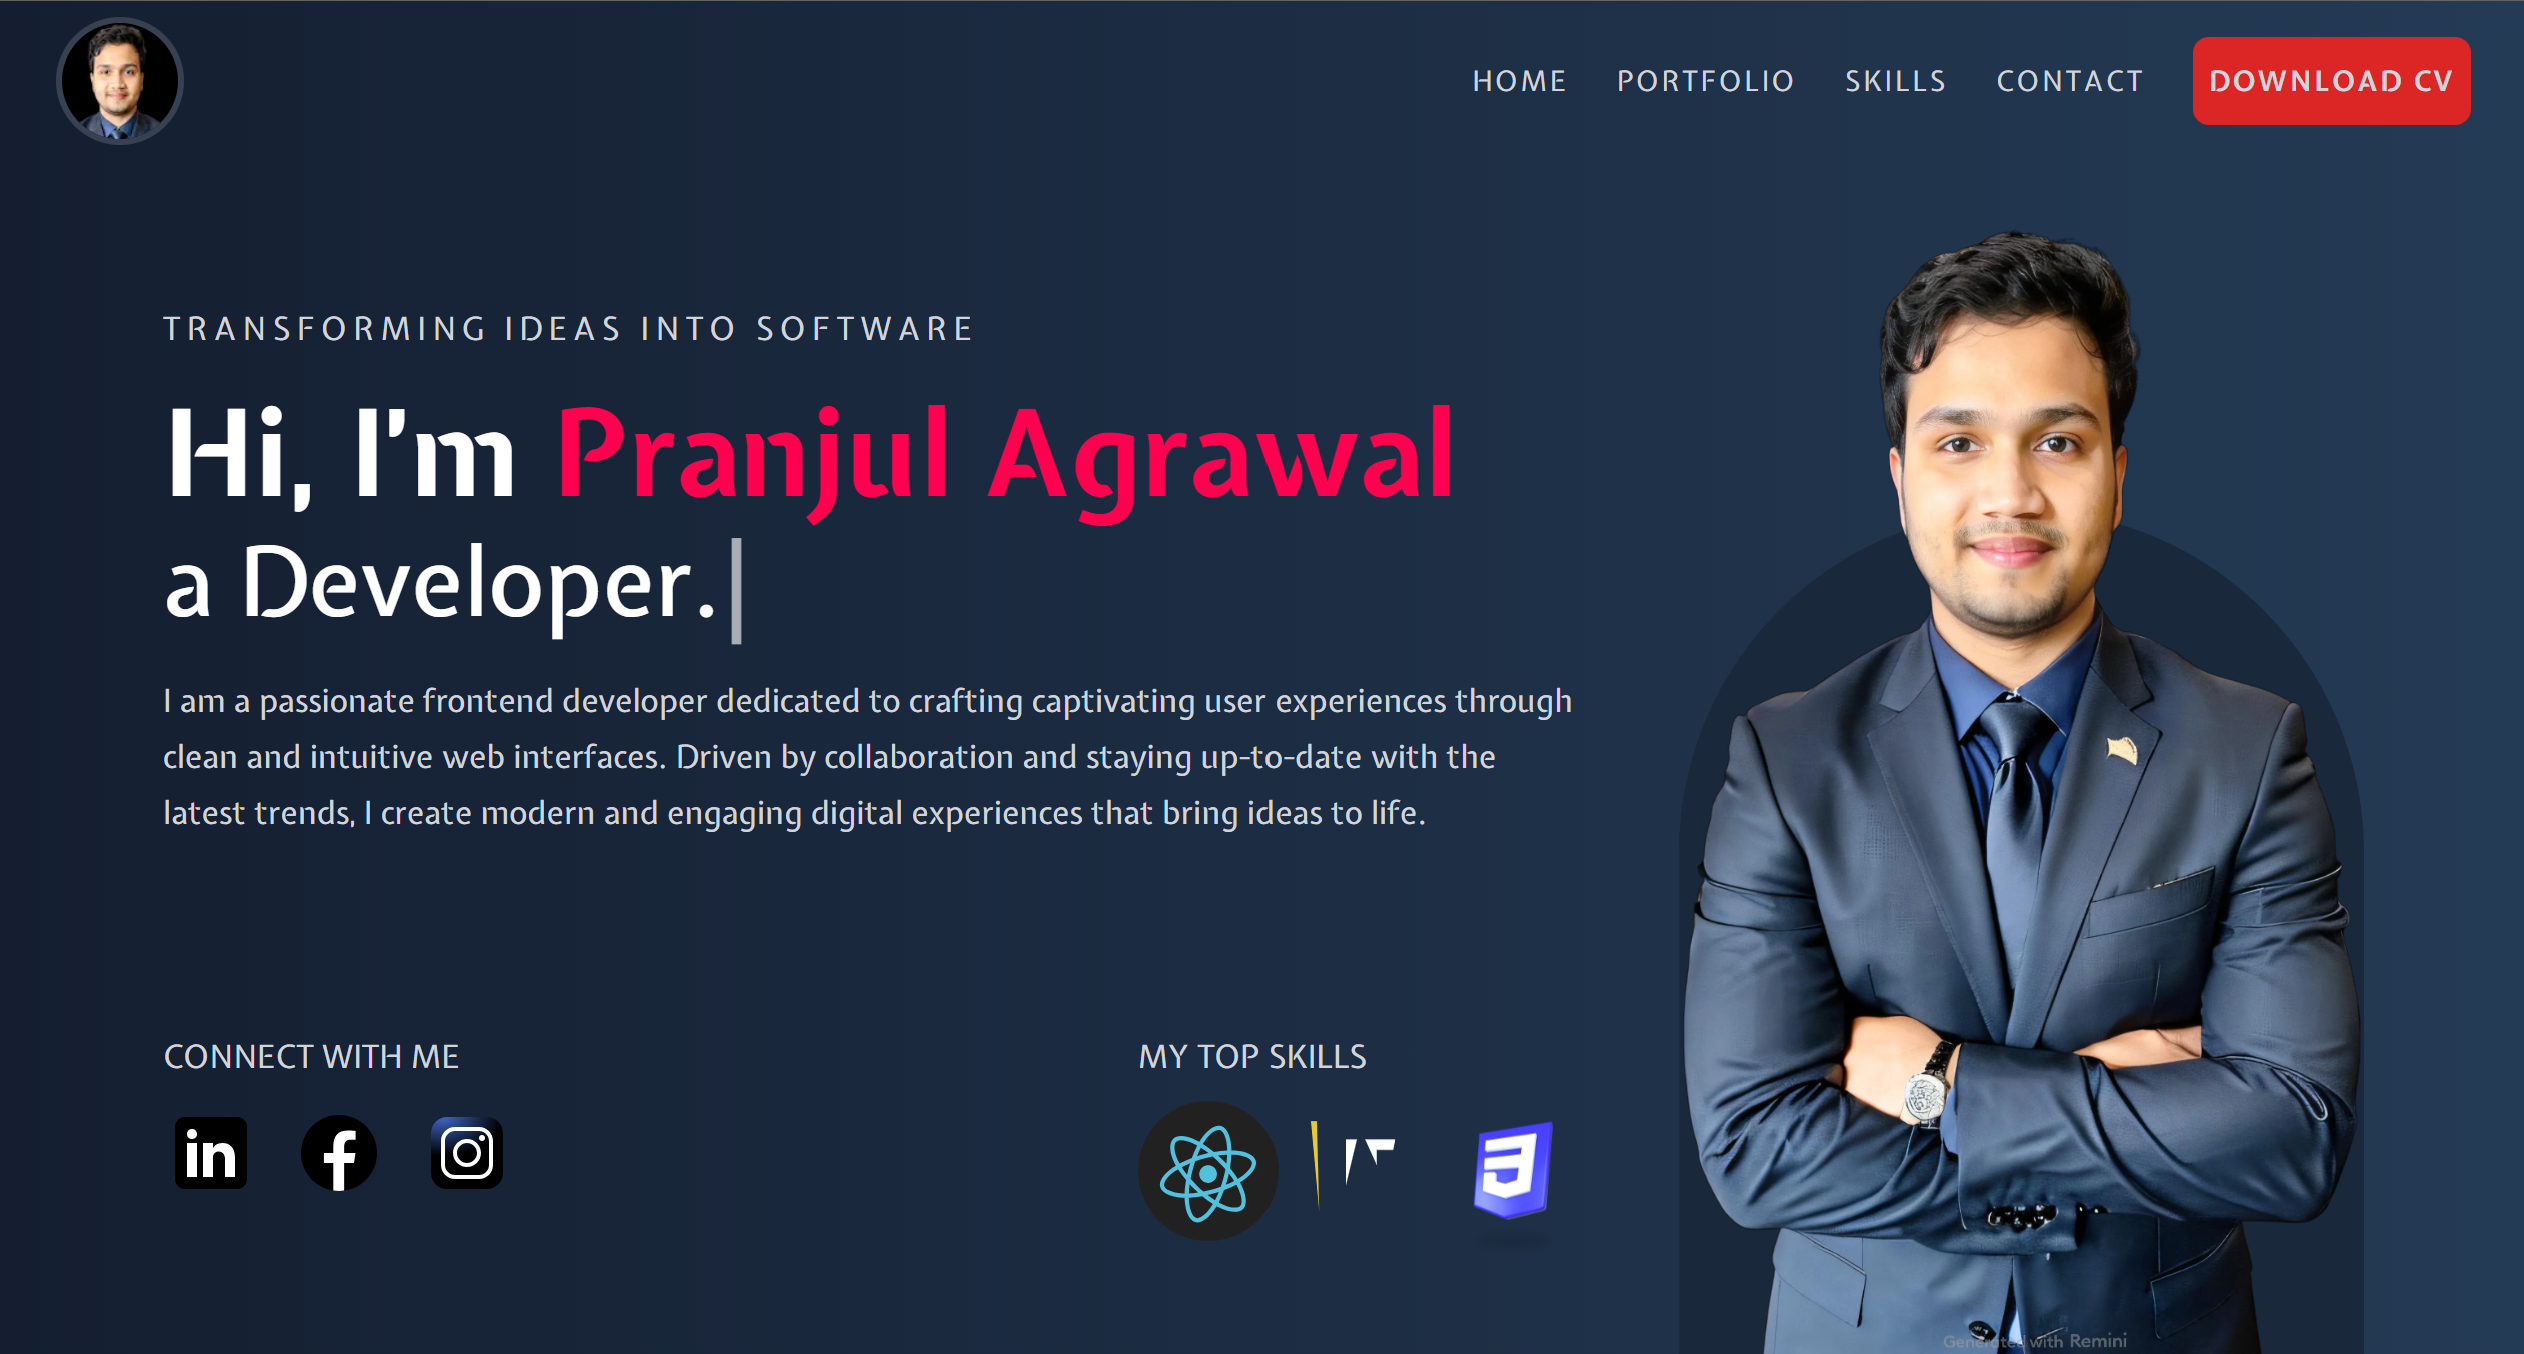
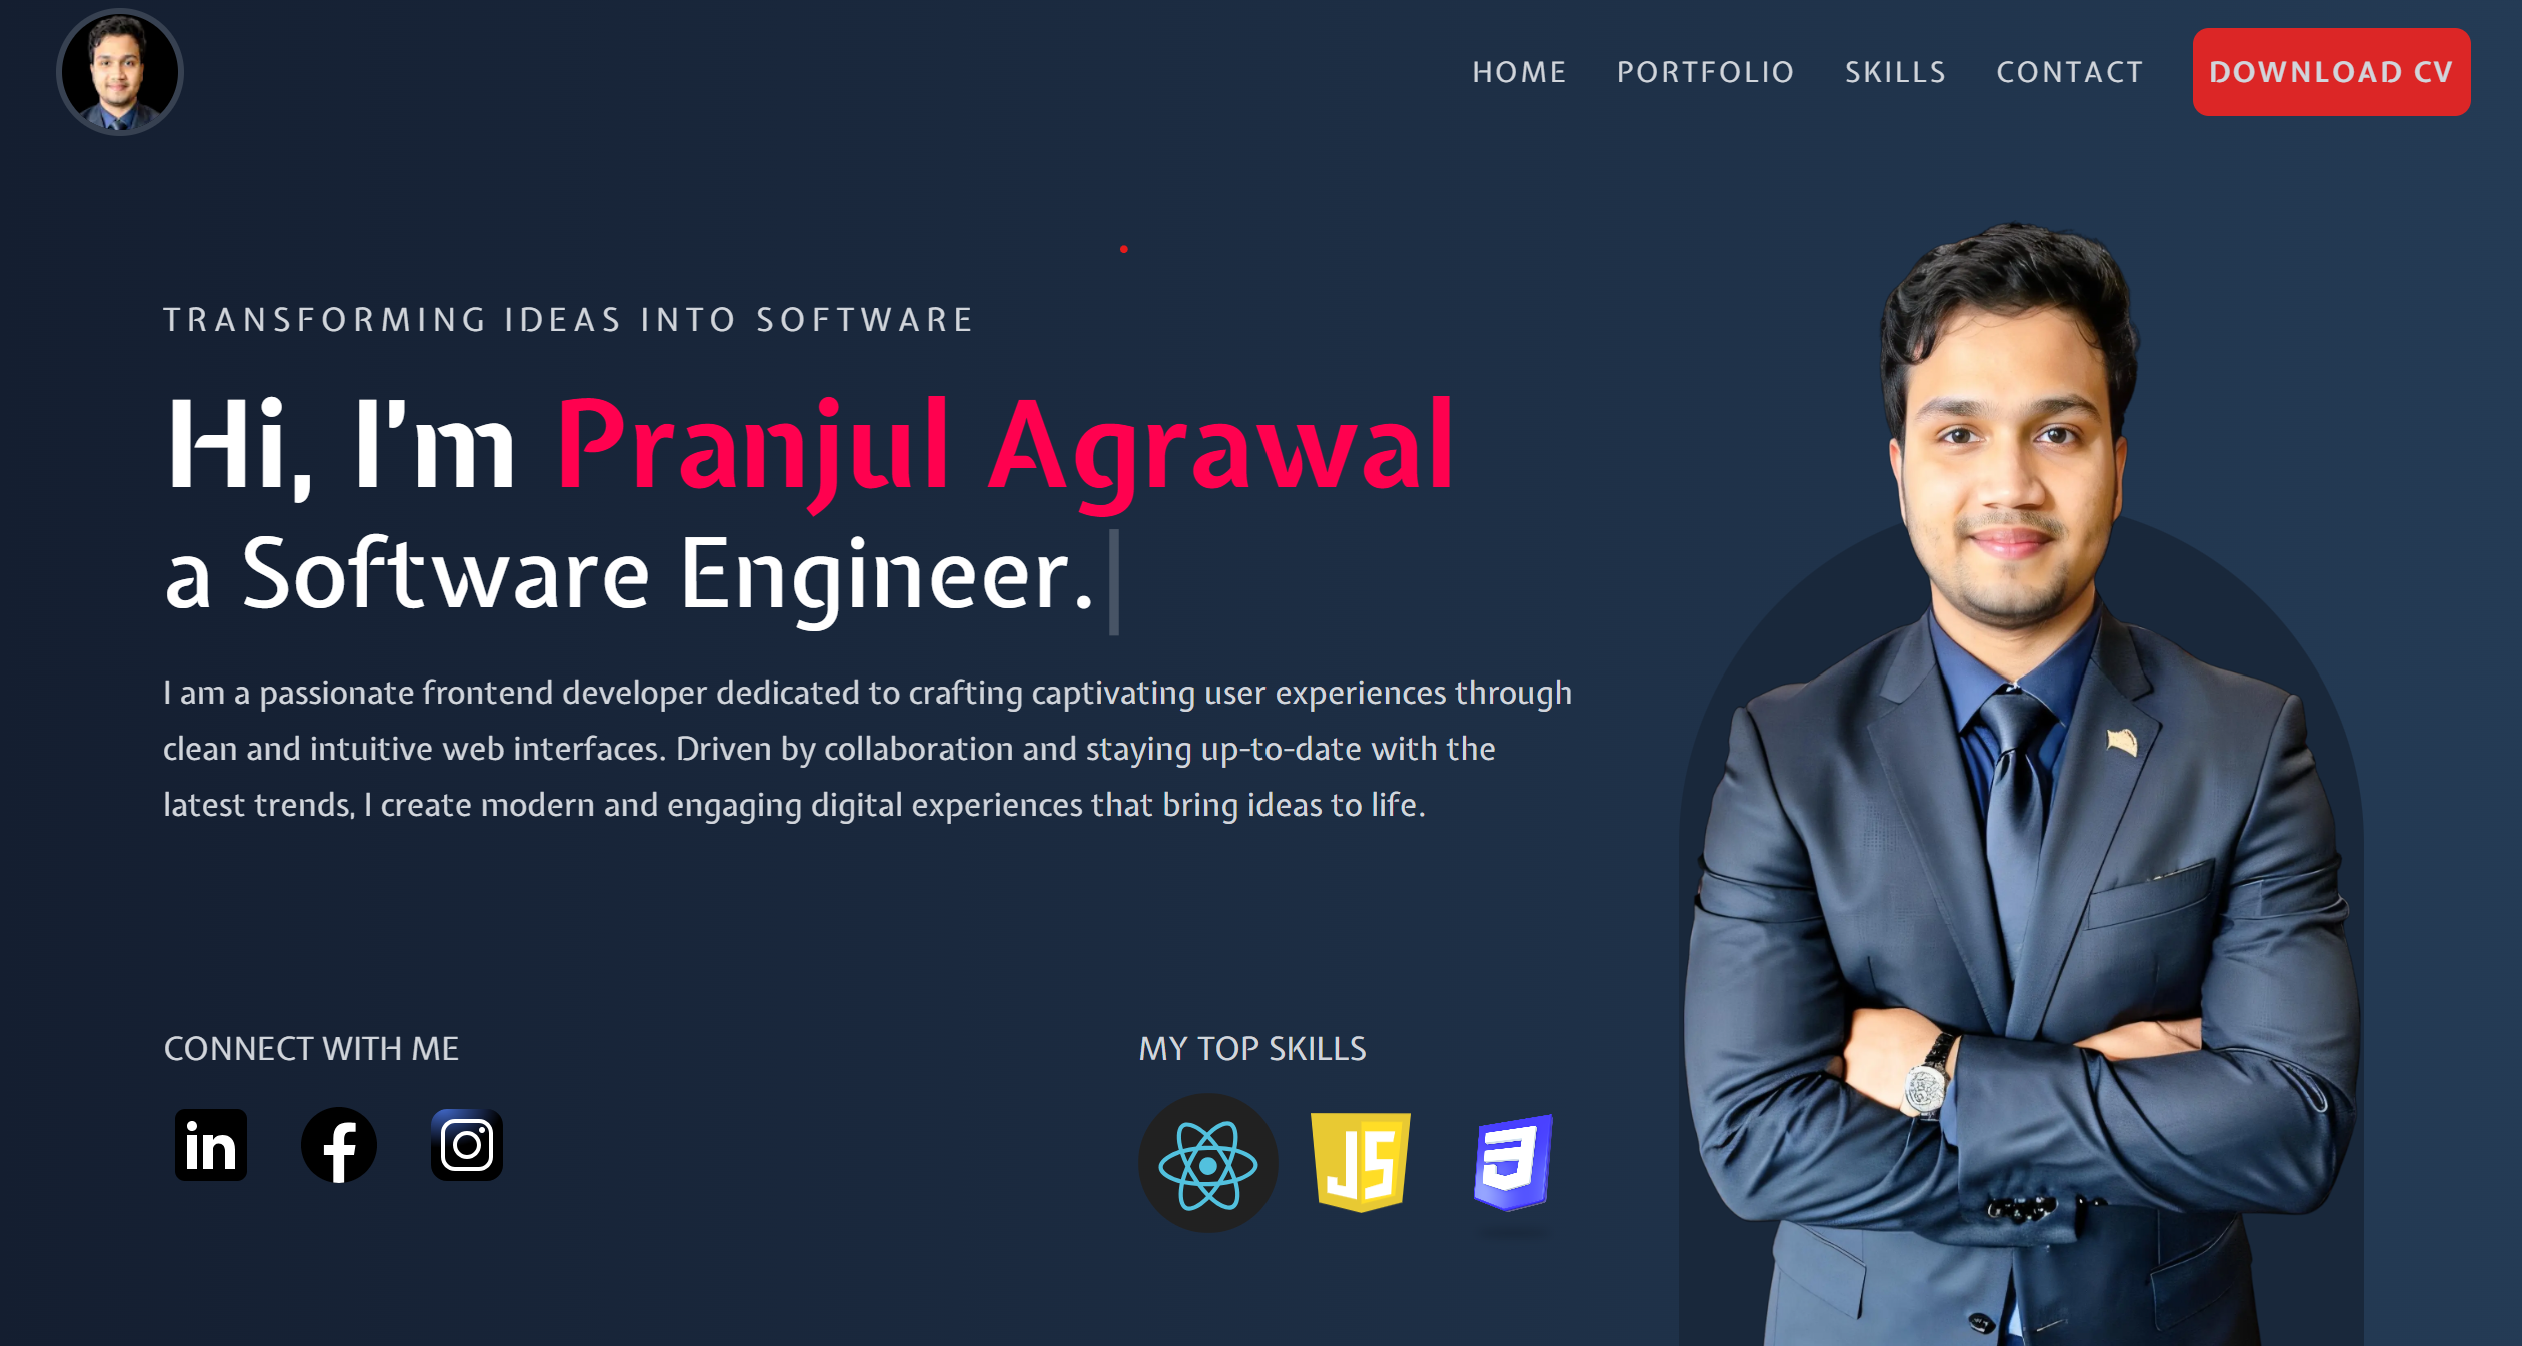
Refactor Contact Section and Hero Section

diff --git a/src/app/components/HeroSection.jsx b/src/app/components/HeroSection.jsx
@@ -5,9 +5,9 @@ import { useEffect, useRef } from "react";
 import Typed from "typed.js";
 import Photo from "../../../public/assets/images/Photo.png";
 import Lottie from "lottie-react";
-import reactAnimation from '../../../public/assets/images/react.json'
-import jsAnimation from '../../../public/assets/images/javascript.json'
-import cssAnimation from '../../../public/assets/images/css.json'
+import reactAnimation from "../../../public/assets/images/react.json";
+import jsAnimation from "../../../public/assets/images/javascript.json";
+import cssAnimation from "../../../public/assets/images/css.json";
 
 function HeroSection() {
   const el = useRef(null);
@@ -43,7 +43,10 @@ function HeroSection() {
             </span>
           </h1>
         </div>
-        <p id="my-desc" className="leading-7 mb-24 max-[1150px]:mb-10 max-[950px]:text-sm max-[950px]:leading-6 max-[850px]:text-base max-[850px]:leading-7 max-[375px]:text-sm max-[375px]:leading-6">
+        <p
+          id="my-desc"
+          className="leading-7 mb-24 max-[1150px]:mb-10 max-[950px]:text-sm max-[950px]:leading-6 max-[850px]:text-base max-[850px]:leading-7 max-[375px]:text-sm max-[375px]:leading-6"
+        >
           I am a passionate frontend developer dedicated to crafting captivating
           user experiences through clean and intuitive web interfaces. Driven by
           collaboration and staying up-to-date with the latest trends, I create
@@ -52,101 +55,121 @@ function HeroSection() {
 
         <div className="flex justify-between max-[850px]:mb-10 max-[640px]:flex-col max-[640px]:items-center max-[640px]:gap-10">
           <div>
-            <h4 className="uppercase mb-3 max-[640px]:text-center">Connect With Me</h4>
+            <h4 className="uppercase mb-3 max-[640px]:text-center">
+              Connect With Me
+            </h4>
             <div className="flex gap-4 max-[640px]:gap-10">
-              <svg
-                xmlns="http://www.w3.org/2000/svg"
-                viewBox="0 0 48 48"
-                width="48px"
-                height="48px"
-                className="group cursor-pointer"
+              <a
+                href="https://www.linkedin.com/in/pranjulagrawal/"
+                target="_blank"
               >
-                <path
-                  fill="#000"
-                  d="M42,37c0,2.762-2.238,5-5,5H11c-2.761,0-5-2.238-5-5V11c0-2.762,2.239-5,5-5h26c2.762,0,5,2.238,5,5V37z"
-                  className="group-hover:fill-[#0288D1]"
-                />
-                <path
-                  fill="#FFF"
-                  d="M12 19H17V36H12zM14.485 17h-.028C12.965 17 12 15.888 12 14.499 12 13.08 12.995 12 14.514 12c1.521 0 2.458 1.08 2.486 2.499C17 15.887 16.035 17 14.485 17zM36 36h-5v-9.099c0-2.198-1.225-3.698-3.192-3.698-1.501 0-2.313 1.012-2.707 1.99C24.957 25.543 25 26.511 25 27v9h-5V19h5v2.616C25.721 20.5 26.85 19 29.738 19c3.578 0 6.261 2.25 6.261 7.274L36 36 36 36z"
-                />
-              </svg>
-              <svg
-                xmlns="http://www.w3.org/2000/svg"
-                viewBox="0 0 48 48"
-                width="48px"
-                height="48px"
-                className="group cursor-pointer"
-              >
-                <path
-                  className="group-hover:fill-[#039be5]"
-                  d="M24 5A19 19 0 1 0 24 43A19 19 0 1 0 24 5Z"
-                />
-                <path
-                  fill="#fff"
-                  d="M26.572,29.036h4.917l0.772-4.995h-5.69v-2.73c0-2.075,0.678-3.915,2.619-3.915h3.119v-4.359c-0.548-0.074-1.707-0.236-3.897-0.236c-4.573,0-7.254,2.415-7.254,7.917v3.323h-4.701v4.995h4.701v13.729C22.089,42.905,23.032,43,24,43c0.875,0,1.729-0.08,2.572-0.194V29.036z"
-                />
-              </svg>
-              <svg
-                xmlns="http://www.w3.org/2000/svg"
-                viewBox="0 0 48 48"
-                width="48px"
-                height="48px"
-                className="group cursor-pointer"
-              >
-                <radialGradient
-                  id="yOrnnhliCrdS2gy~4tD8ma"
-                  cx="19.38"
-                  cy="42.035"
-                  r="44.899"
-                  gradientUnits="userSpaceOnUse"
+                <svg
+                  xmlns="http://www.w3.org/2000/svg"
+                  viewBox="0 0 48 48"
+                  width="48px"
+                  height="48px"
+                  className="group cursor-pointer"
                 >
-                  <stop offset="0" stopColor="#fd5" />
-                  <stop offset=".328" stopColor="#ff543f" />
-                  <stop offset=".348" stopColor="#fc5245" />
-                  <stop offset=".504" stopColor="#e64771" />
-                  <stop offset=".643" stopColor="#d53e91" />
-                  <stop offset=".761" stopColor="#cc39a4" />
-                  <stop offset=".841" stopColor="#c837ab" />
-                </radialGradient>
-                <path
-                  fill="#000"
-                  className="group-hover:fill-[url(#yOrnnhliCrdS2gy~4tD8ma)]"
-                  d="M34.017,41.99l-20,0.019c-4.4,0.004-8.003-3.592-8.008-7.992l-0.019-20	c-0.004-4.4,3.592-8.003,7.992-8.008l20-0.019c4.4-0.004,8.003,3.592,8.008,7.992l0.019,20	C42.014,38.383,38.417,41.986,34.017,41.99z"
-                />
-                <radialGradient
-                  id="yOrnnhliCrdS2gy~4tD8mb"
-                  cx="11.786"
-                  cy="5.54"
-                  r="29.813"
-                  gradientTransform="matrix(1 0 0 .6663 0 1.849)"
-                  gradientUnits="userSpaceOnUse"
+                  <path
+                    fill="#000"
+                    d="M42,37c0,2.762-2.238,5-5,5H11c-2.761,0-5-2.238-5-5V11c0-2.762,2.239-5,5-5h26c2.762,0,5,2.238,5,5V37z"
+                    className="group-hover:fill-[#0288D1]"
+                  />
+                  <path
+                    fill="#FFF"
+                    d="M12 19H17V36H12zM14.485 17h-.028C12.965 17 12 15.888 12 14.499 12 13.08 12.995 12 14.514 12c1.521 0 2.458 1.08 2.486 2.499C17 15.887 16.035 17 14.485 17zM36 36h-5v-9.099c0-2.198-1.225-3.698-3.192-3.698-1.501 0-2.313 1.012-2.707 1.99C24.957 25.543 25 26.511 25 27v9h-5V19h5v2.616C25.721 20.5 26.85 19 29.738 19c3.578 0 6.261 2.25 6.261 7.274L36 36 36 36z"
+                  />
+                </svg>
+              </a>
+              <a
+                href="https://www.facebook.com/pranjul.agrawal.94"
+                target="_blank"
+              >
+                <svg
+                  xmlns="http://www.w3.org/2000/svg"
+                  viewBox="0 0 48 48"
+                  width="48px"
+                  height="48px"
+                  className="group cursor-pointer"
                 >
-                  <stop offset="0" stopColor="#4168c9" />
-                  <stop offset=".999" stopColor="#4168c9" stopOpacity="0" />
-                </radialGradient>
-                <path
-                  fill="url(#yOrnnhliCrdS2gy~4tD8mb)"
-                  d="M34.017,41.99l-20,0.019c-4.4,0.004-8.003-3.592-8.008-7.992l-0.019-20	c-0.004-4.4,3.592-8.003,7.992-8.008l20-0.019c4.4-0.004,8.003,3.592,8.008,7.992l0.019,20	C42.014,38.383,38.417,41.986,34.017,41.99z"
-                />
-                <path
-                  fill="#fff"
-                  d="M24,31c-3.859,0-7-3.14-7-7s3.141-7,7-7s7,3.14,7,7S27.859,31,24,31z M24,19c-2.757,0-5,2.243-5,5	s2.243,5,5,5s5-2.243,5-5S26.757,19,24,19z"
-                />
-                <circle cx="31.5" cy="16.5" r="1.5" fill="#fff" />
-                <path
-                  fill="#fff"
-                  d="M30,37H18c-3.859,0-7-3.14-7-7V18c0-3.86,3.141-7,7-7h12c3.859,0,7,3.14,7,7v12	C37,33.86,33.859,37,30,37z M18,13c-2.757,0-5,2.243-5,5v12c0,2.757,2.243,5,5,5h12c2.757,0,5-2.243,5-5V18c0-2.757-2.243-5-5-5H18z"
-                />
-              </svg>
+                  <path
+                    className="group-hover:fill-[#039be5]"
+                    d="M24 5A19 19 0 1 0 24 43A19 19 0 1 0 24 5Z"
+                  />
+                  <path
+                    fill="#fff"
+                    d="M26.572,29.036h4.917l0.772-4.995h-5.69v-2.73c0-2.075,0.678-3.915,2.619-3.915h3.119v-4.359c-0.548-0.074-1.707-0.236-3.897-0.236c-4.573,0-7.254,2.415-7.254,7.917v3.323h-4.701v4.995h4.701v13.729C22.089,42.905,23.032,43,24,43c0.875,0,1.729-0.08,2.572-0.194V29.036z"
+                  />
+                </svg>
+              </a>
+              <a
+                href="https://www.instagram.com/pranjulagrawall/"
+                target="_blank"
+              >
+                <svg
+                  xmlns="http://www.w3.org/2000/svg"
+                  viewBox="0 0 48 48"
+                  width="48px"
+                  height="48px"
+                  className="group cursor-pointer"
+                >
+                  <radialGradient
+                    id="yOrnnhliCrdS2gy~4tD8ma"
+                    cx="19.38"
+                    cy="42.035"
+                    r="44.899"
+                    gradientUnits="userSpaceOnUse"
+                  >
+                    <stop offset="0" stopColor="#fd5" />
+                    <stop offset=".328" stopColor="#ff543f" />
+                    <stop offset=".348" stopColor="#fc5245" />
+                    <stop offset=".504" stopColor="#e64771" />
+                    <stop offset=".643" stopColor="#d53e91" />
+                    <stop offset=".761" stopColor="#cc39a4" />
+                    <stop offset=".841" stopColor="#c837ab" />
+                  </radialGradient>
+                  <path
+                    fill="#000"
+                    className="group-hover:fill-[url(#yOrnnhliCrdS2gy~4tD8ma)]"
+                    d="M34.017,41.99l-20,0.019c-4.4,0.004-8.003-3.592-8.008-7.992l-0.019-20	c-0.004-4.4,3.592-8.003,7.992-8.008l20-0.019c4.4-0.004,8.003,3.592,8.008,7.992l0.019,20	C42.014,38.383,38.417,41.986,34.017,41.99z"
+                  />
+                  <radialGradient
+                    id="yOrnnhliCrdS2gy~4tD8mb"
+                    cx="11.786"
+                    cy="5.54"
+                    r="29.813"
+                    gradientTransform="matrix(1 0 0 .6663 0 1.849)"
+                    gradientUnits="userSpaceOnUse"
+                  >
+                    <stop offset="0" stopColor="#4168c9" />
+                    <stop offset=".999" stopColor="#4168c9" stopOpacity="0" />
+                  </radialGradient>
+                  <path
+                    fill="url(#yOrnnhliCrdS2gy~4tD8mb)"
+                    d="M34.017,41.99l-20,0.019c-4.4,0.004-8.003-3.592-8.008-7.992l-0.019-20	c-0.004-4.4,3.592-8.003,7.992-8.008l20-0.019c4.4-0.004,8.003,3.592,8.008,7.992l0.019,20	C42.014,38.383,38.417,41.986,34.017,41.99z"
+                  />
+                  <path
+                    fill="#fff"
+                    d="M24,31c-3.859,0-7-3.14-7-7s3.141-7,7-7s7,3.14,7,7S27.859,31,24,31z M24,19c-2.757,0-5,2.243-5,5	s2.243,5,5,5s5-2.243,5-5S26.757,19,24,19z"
+                  />
+                  <circle cx="31.5" cy="16.5" r="1.5" fill="#fff" />
+                  <path
+                    fill="#fff"
+                    d="M30,37H18c-3.859,0-7-3.14-7-7V18c0-3.86,3.141-7,7-7h12c3.859,0,7,3.14,7,7v12	C37,33.86,33.859,37,30,37z M18,13c-2.757,0-5,2.243-5,5v12c0,2.757,2.243,5,5,5h12c2.757,0,5-2.243,5-5V18c0-2.757-2.243-5-5-5H18z"
+                  />
+                </svg>
+              </a>
             </div>
           </div>
           <div>
             <h4 className="uppercase max-[640px]:text-center">My Top Skills</h4>
             <div className="flex gap-4 max-[640px]:gap-10">
-              <Lottie animationData={reactAnimation} style={{width: '70px'}} />
-              <Lottie animationData={jsAnimation} style={{width: '50px'}} />
-              <Lottie animationData={cssAnimation} style={{width: '70px'}} />
+              <Lottie
+                animationData={reactAnimation}
+                style={{ width: "70px" }}
+              />
+              <Lottie animationData={jsAnimation} style={{ width: "50px" }} />
+              <Lottie animationData={cssAnimation} style={{ width: "70px" }} />
             </div>
           </div>
         </div>

diff --git a/src/app/components/ContactSection.jsx b/src/app/components/ContactSection.jsx
@@ -80,9 +80,10 @@ function ContactSection() {
           <h4 className="text-center text-lg font-medium text-red-500 mb-3 max-[425px]:text-base">
             Software Developer
           </h4>
-          <p className="text-gray-400 text-lg mb-3 max-[425px]:text-base">
-            I am available for freelance work. Connect with me via and call in
-            to my account.
+          <p className="text-gray-400 text-lg mb-3 max-[425px]:text-base text-justify">
+            I am currently open to freelance opportunities and welcome the
+            chance to collaborate. Please feel free to contact me via phone or
+            email for further discussions and inquiries.
           </p>
           <div className="text-gray-400 text-lg max-[425px]:text-base">
             Phone:{" "}
